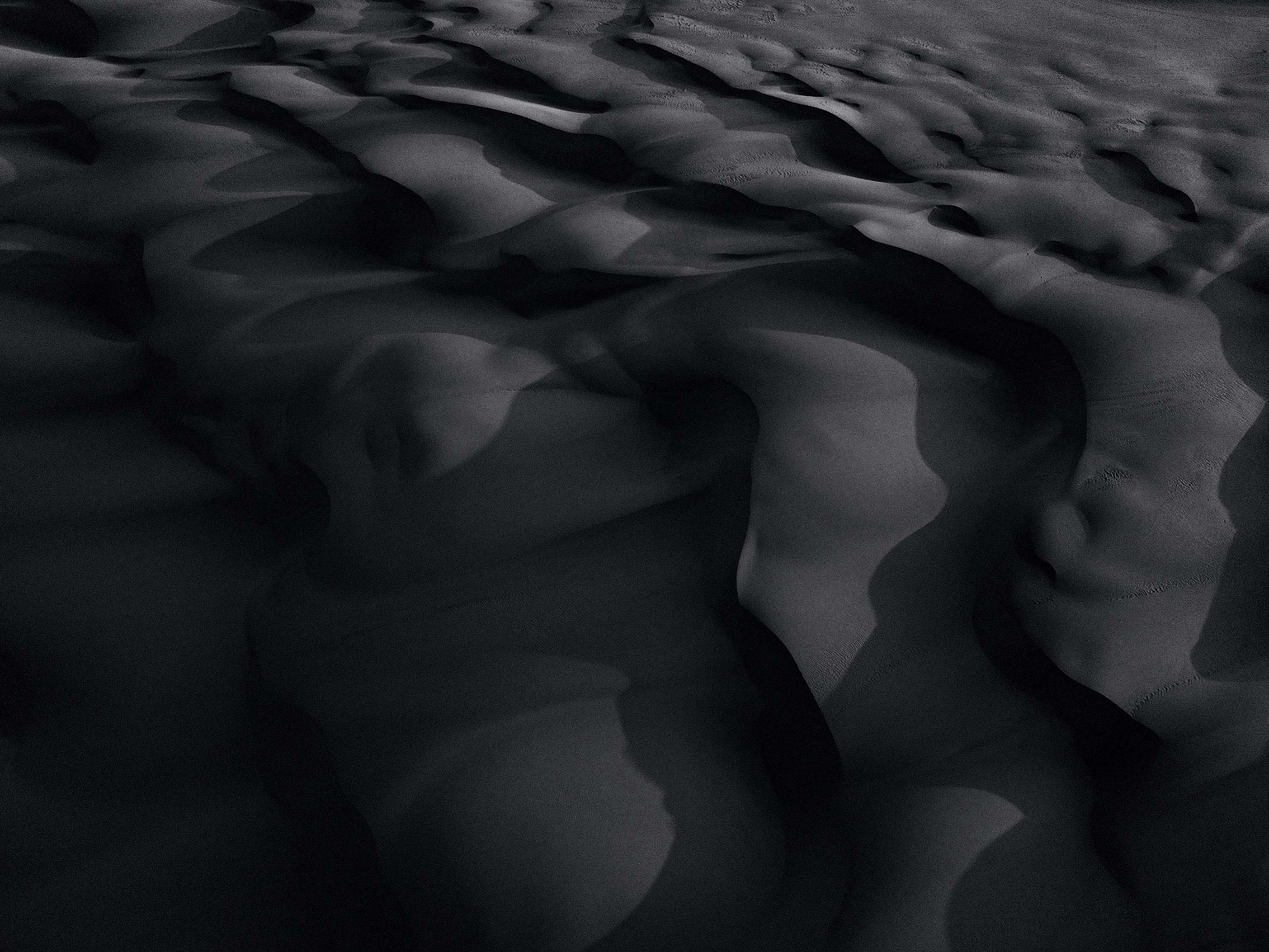
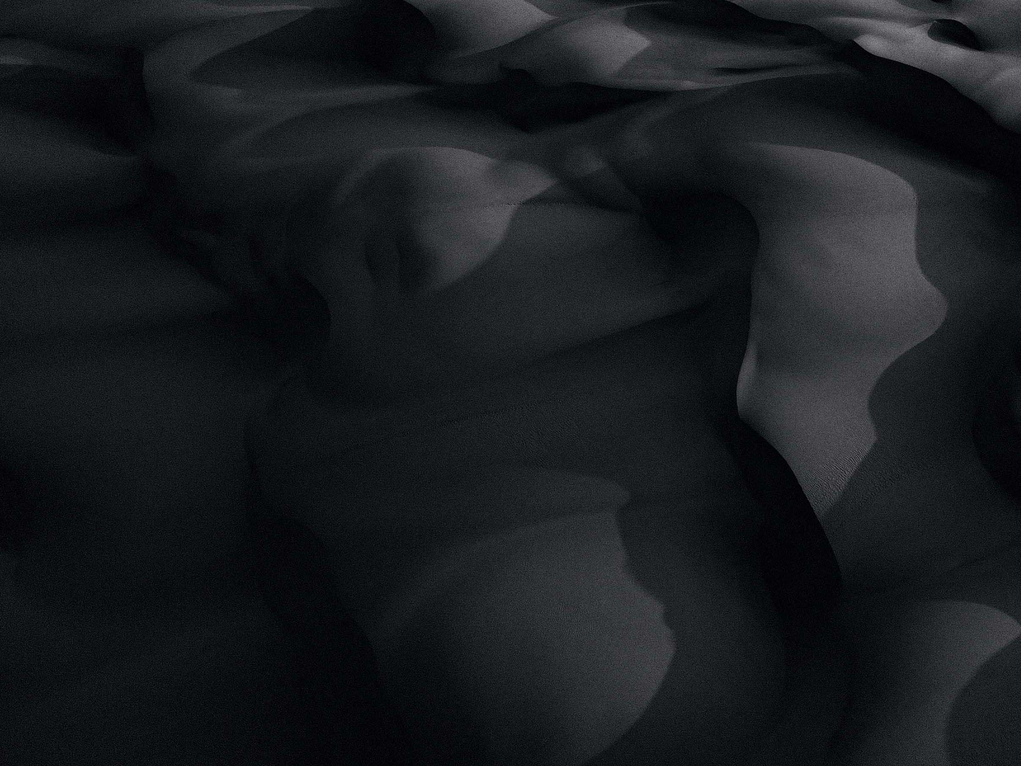
Various tweaks

diff --git a/src/components/SignIn.vue b/src/components/SignIn.vue
@@ -236,7 +236,7 @@ export default {
   width: 100%;
   display: flex;
   justify-content: center;
-  backdrop-filter: blur(5px);
+  backdrop-filter: blur(15px);
 }
 
 #divRight {
@@ -258,8 +258,7 @@ export default {
   grid-column-start: 1;
   grid-column-end: 1;
   grid-row-start: 1;
-  background: url("../assets/def-back-login (1).webp")
-    no-repeat center center fixed;
+  background: url("../assets/def-back2.jpg");
   -webkit-background-size: cover;
   -moz-background-size: cover;
   -o-background-size: cover;

diff --git a/src/App.vue b/src/App.vue
@@ -62,7 +62,7 @@ export default {
   right: 0;
   bottom: 0;
   margin: auto;
-  background: url("./assets/def-back (1).webp") no-repeat center center
+  background: url("./assets/def-back.jpg") no-repeat center center
     fixed;
   -webkit-background-size: cover;
   -moz-background-size: cover;

diff --git a/src/components/Player.vue b/src/components/Player.vue
@@ -1856,7 +1856,7 @@ font-awesome-icon {
 #divPlayerWrapper {
   width: 100%;
   height: 100%;
-  /* backdrop-filter: blur(5px); */
+  backdrop-filter: blur(10px);
 }
 
 .animation-pulse {
